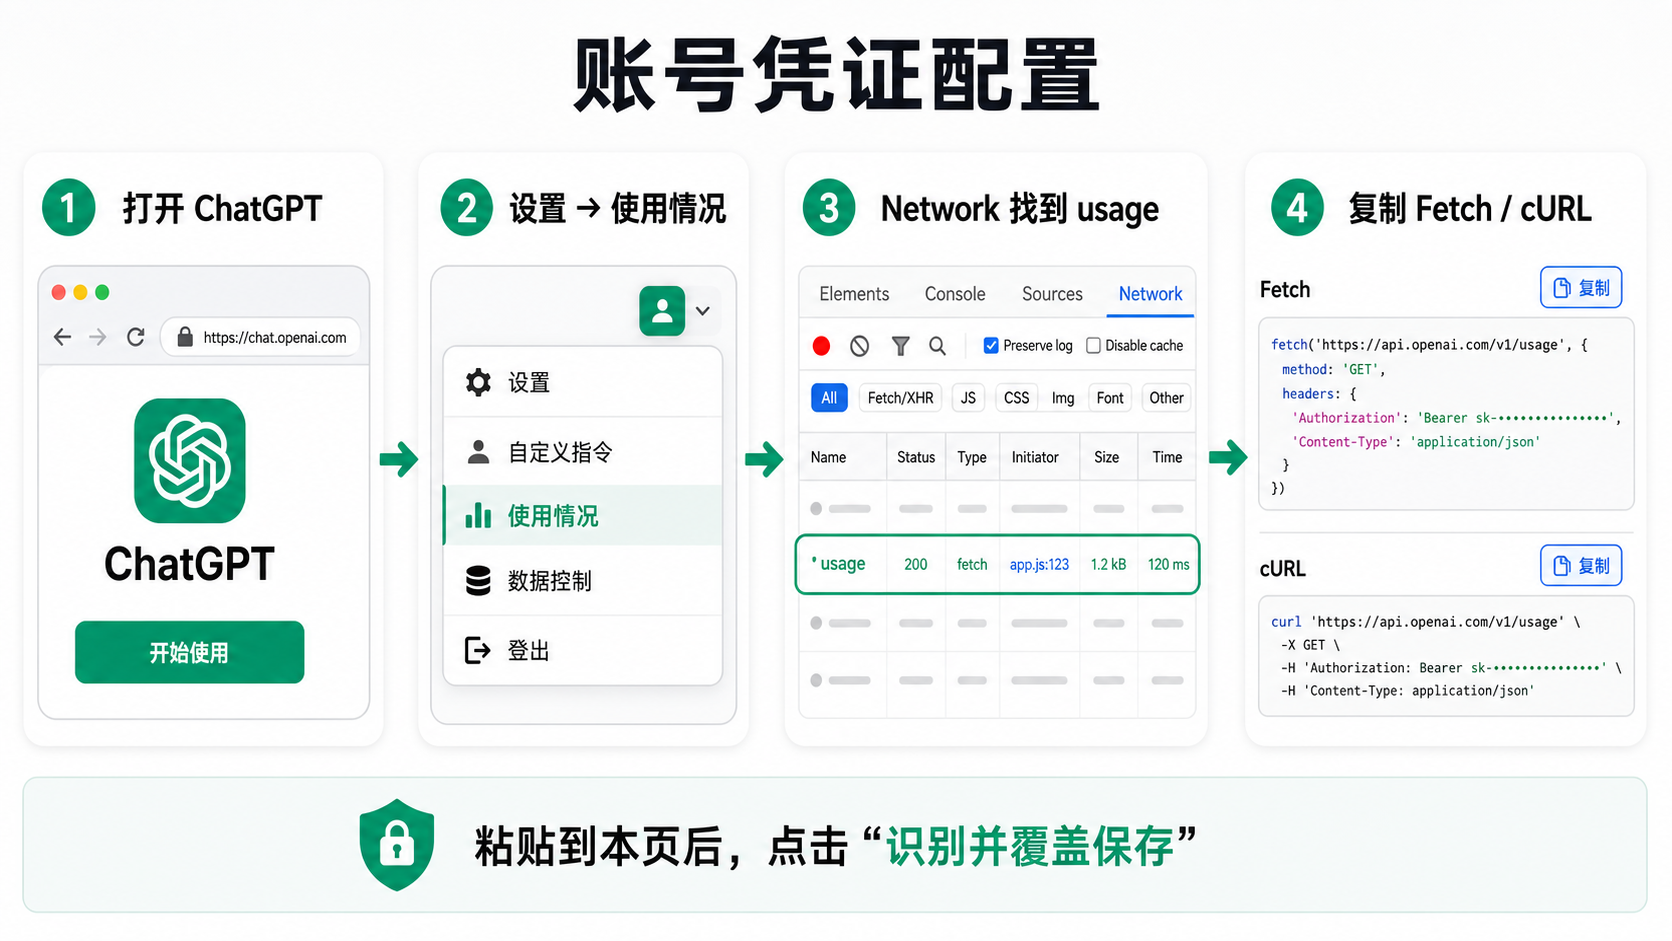
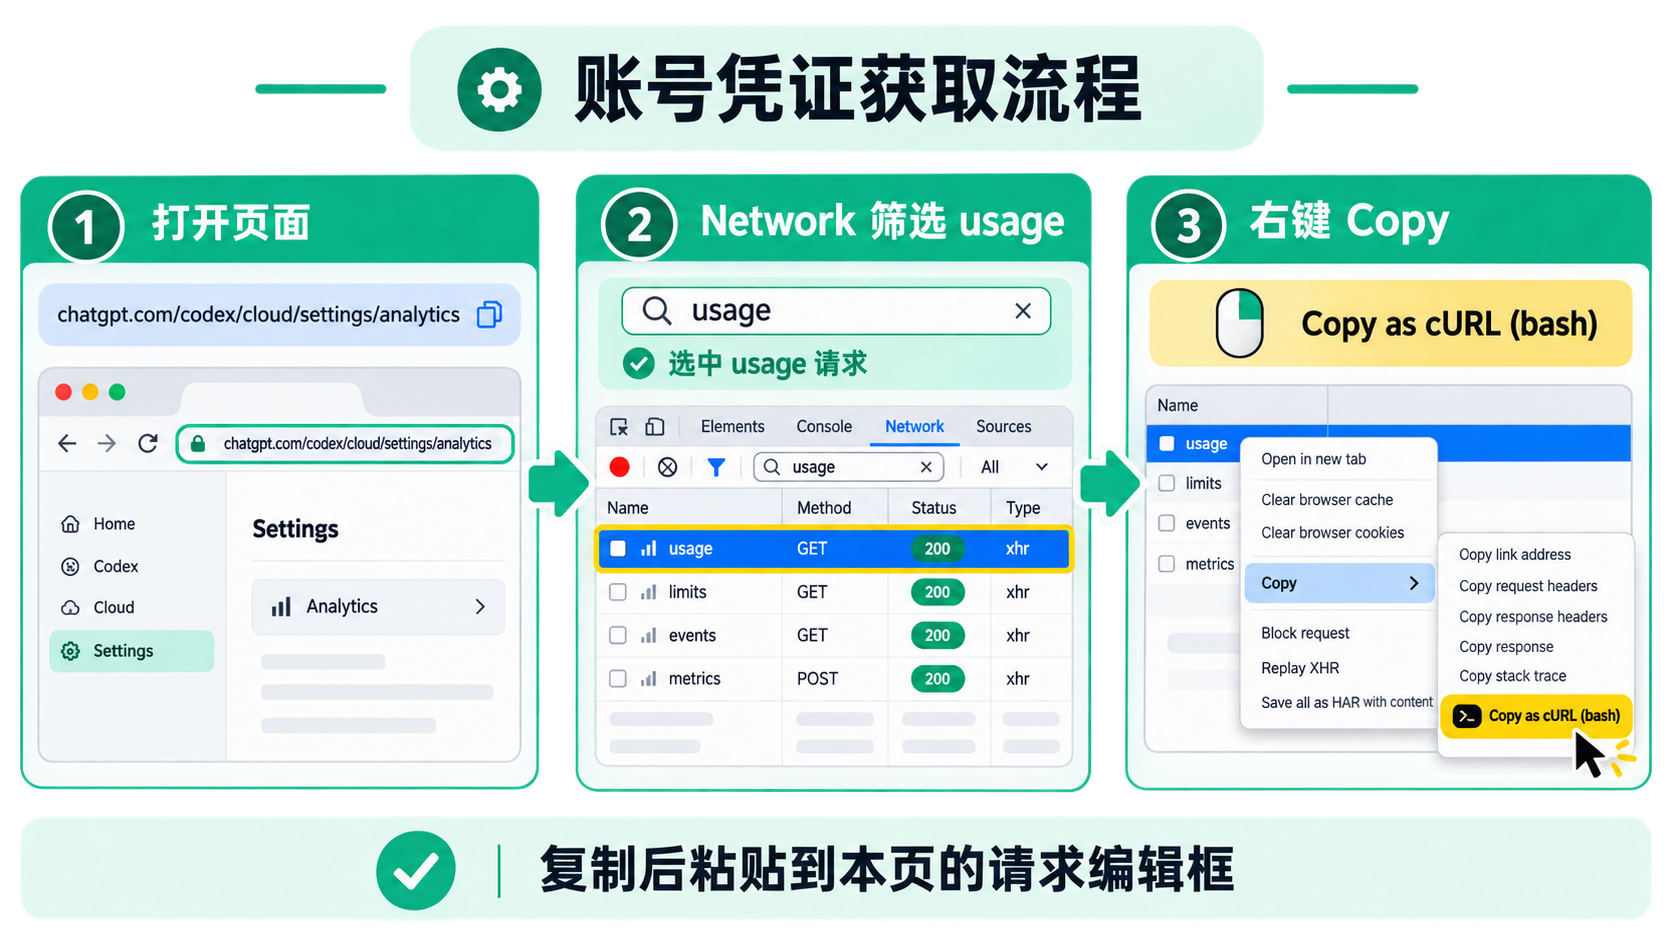
docs: refresh credential capture guide

diff --git a/docs/openai-config.md b/docs/openai-config.md
@@ -23,12 +23,12 @@
 
 ### ChatGPT Web 端操作步骤
 
-1. 打开 [ChatGPT](https://chatgpt.com/) 并登录自己的账号。
-2. 打开 **设置 → 使用情况**，进入使用限额页面。
-3. 按 `F12` 打开开发者工具，切换到 **Network/网络** 面板；可勾选 Preserve log，并在过滤框输入 `usage` 或 `wham/usage`。
-4. 在请求列表中找到 `/backend-api/wham/usage`，确认状态码为 `200` 后打开详情。
-5. 在 **Headers → Request Headers** 中找到 `Authorization`。它通常形如 `Bearer <token>`，项目配置时只复制 `Bearer ` 后面的 Token，不要把 `Bearer ` 前缀再次写入 `access_token`。
-6. 如果同一请求包含 `chatgpt-account-id`，将它的值配置到 `openai.chatgpt_account_id`；如果没有该请求头，则按“如何确认 Account ID”一节在本机离线确认。
+1. 打开 [ChatGPT 使用分析页](https://chatgpt.com/codex/cloud/settings/analytics) 并登录自己的账号。
+2. 按 `F12` 打开开发者工具，切换到 **Network/网络** 面板，在过滤框输入 `usage`。
+3. 刷新页面，在请求列表中找到 `/backend-api/wham/usage`，确认状态码为 `200`。
+4. 右键该请求，选择 **Copy → Copy as cURL (bash)**；也可以选择当前终端对应的 CMD 或 PowerShell 格式。
+5. 将复制的 cURL 粘贴到项目设置页的“粘贴浏览器 Fetch / cURL 请求”编辑框，点击识别并覆盖保存。项目会自动提取 `Authorization`、Cookie、Account ID 和客户端上下文。
+6. 如果需要手动核对字段，在 **Headers → Request Headers** 中找到 `Authorization`。它通常形如 `Bearer <token>`，项目配置时只复制 `Bearer ` 后面的 Token，不要把 `Bearer ` 前缀再次写入 `access_token`。
 
 字段对应关系：
 

diff --git a/docs/browser-curl-config.md b/docs/browser-curl-config.md
@@ -10,17 +10,15 @@ https://chatgpt.com/backend-api/wham/usage
 
 ## 一、重新抓取当前请求
 
-1. 打开自己有权访问的 [ChatGPT](https://chatgpt.com/) 并登录。
-2. 进入 **设置 → 使用情况**，或打开 Codex 使用情况页面。
-3. 按 `F12` 打开开发者工具，切换到 **Network/网络**。
-4. 勾选 **Preserve log/保留日志**，过滤 `wham/usage` 或 `usage`。
-5. 刷新使用情况页面，找到状态码为 `200` 的：
+1. 打开自己有权访问的 [ChatGPT 使用分析页](https://chatgpt.com/codex/cloud/settings/analytics) 并登录。
+2. 按 `F12` 打开开发者工具，切换到 **Network/网络**。
+3. 在过滤框输入 `usage`，刷新页面，找到状态码为 `200` 的：
 
    ```text
    /backend-api/wham/usage
    ```
 
-6. 右键该请求，选择 **Copy → Copy as cURL (Windows)**。Windows 用户建议复制 CMD 格式；PowerShell、Linux 和 macOS 用户可以复制对应的 Bash 格式。
+4. 右键该请求，选择 **Copy → Copy as cURL (bash)**；也可以根据当前终端选择 CMD、PowerShell 或其他 cURL 格式。
 
 只从自己当前登录的浏览器会话抓取请求。不要把完整 cURL 粘贴到工单、聊天记录、公共仓库或在线转换网站中。
 
